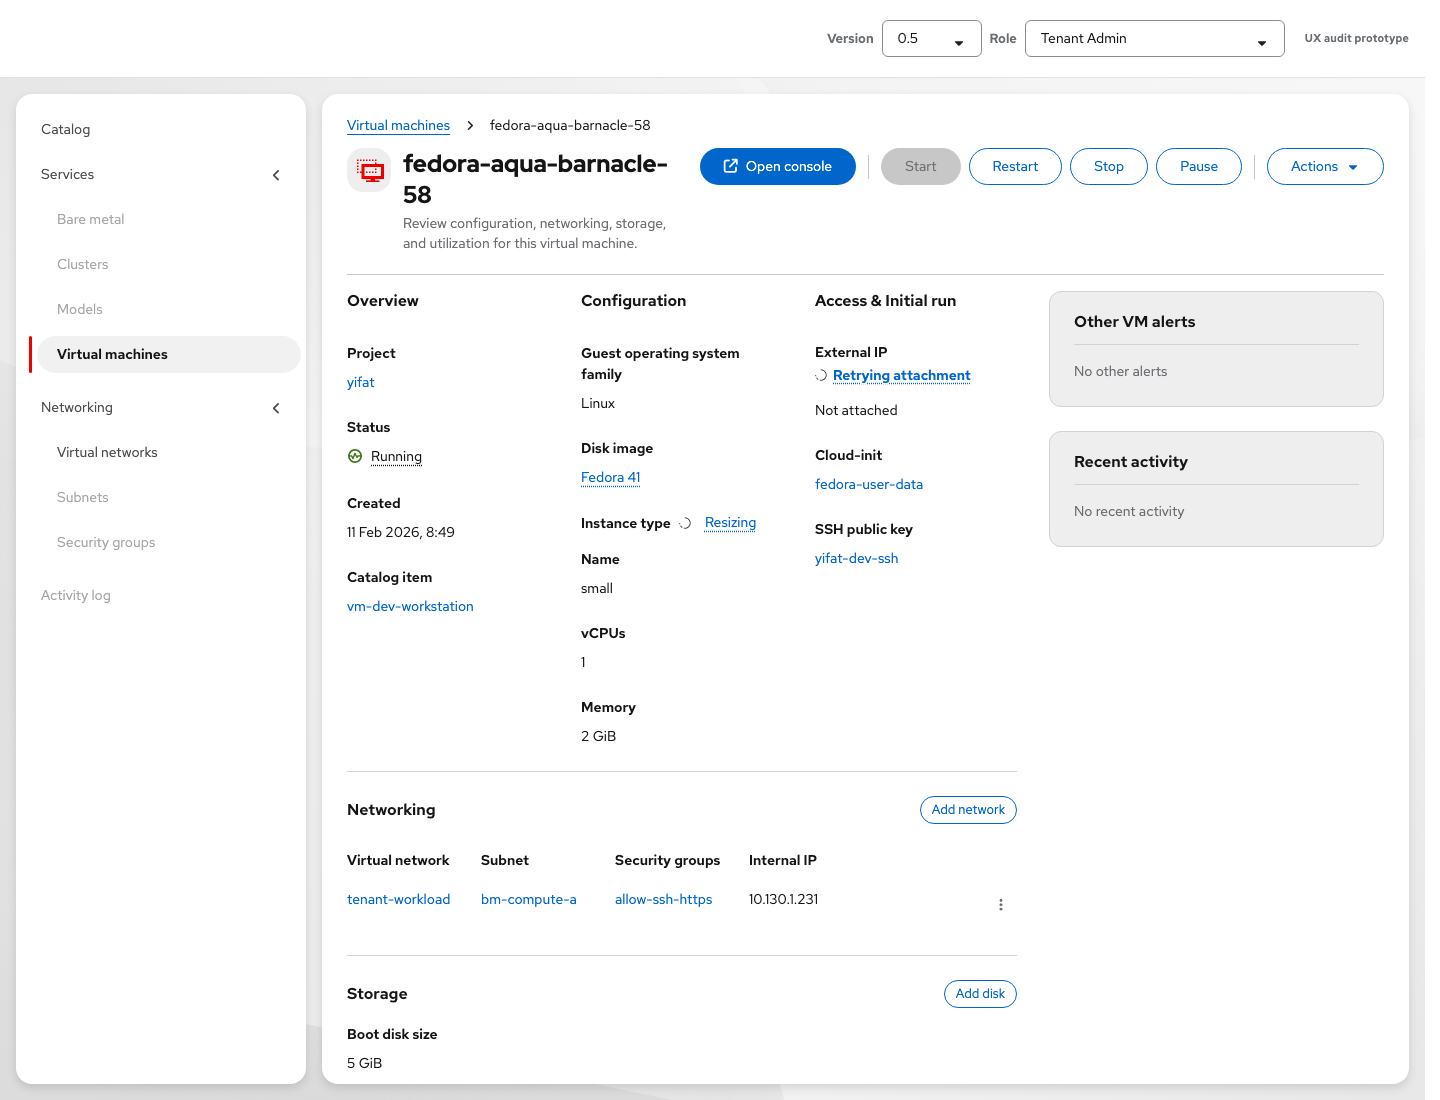
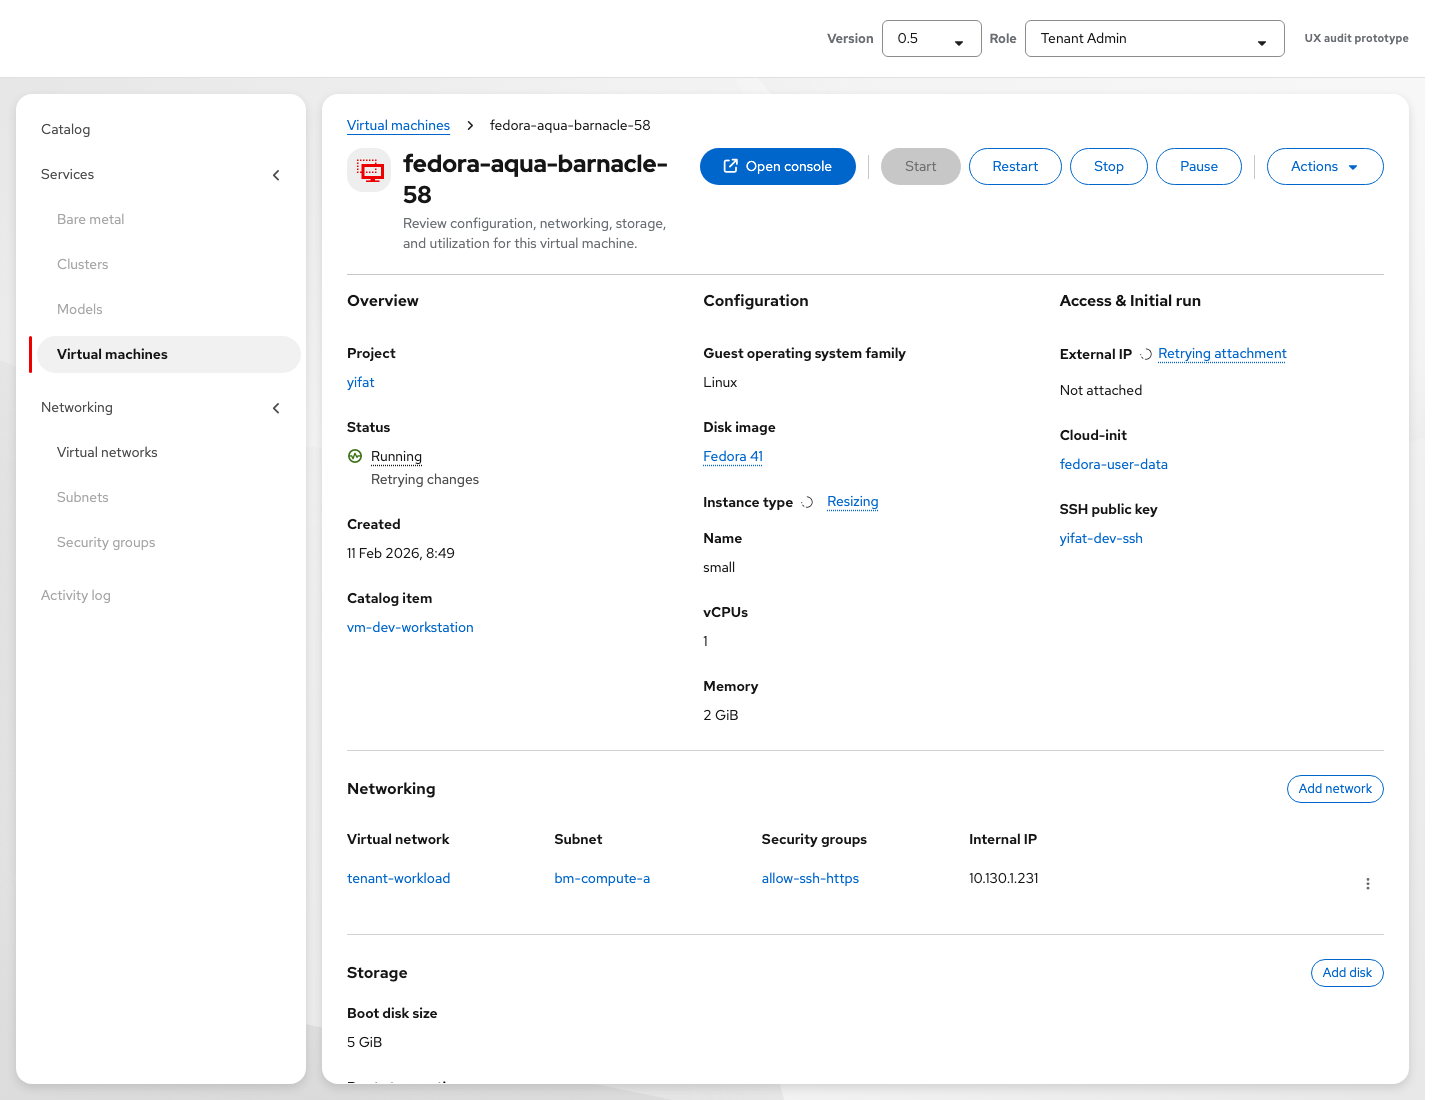
OSAC-7158: align VM details values and operation status layout

diff --git a/apps/app-frontend/public/vmaas-ux-prototype.html b/apps/app-frontend/public/vmaas-ux-prototype.html
@@ -1524,6 +1524,7 @@
     }
     @media (max-width: 1100px) { .vm-overview-v2 { grid-template-columns: 1fr; } }
     .vm-overview-v2__main { min-width: 0; }
+    .vm-overview-v2--full-width { grid-template-columns: minmax(0, 1fr); }
     .vm-overview-v2__aside { display: flex; flex-direction: column; gap: 24px; min-width: 0; }
     .vm-overview-v2__details { padding-top: 0; }
     .vm-overview-v2__detail-cols {
@@ -1673,6 +1674,11 @@
     .vm-access-section__title .pf-v6-c-label {
       font-size: 11px;
       line-height: 1.2;
+    }
+    .vm-operation-heading {
+      display: inline-flex;
+      align-items: center;
+      white-space: nowrap;
     }
     .vm-access-section__host-row {
       display: flex;
@@ -16007,7 +16013,11 @@
 
       return `
         <section class="vm-access-section" aria-labelledby="vm-access-eip-title">
-          <h4 class="ethan-detail-col__subtitle vm-access-section__title" id="vm-access-eip-title">External IP${progressControl ? ` <span class="vm-operation-heading">${progressControl}</span>` : ''}${autoAttached ? ' <span class="pf-v6-c-label pf-m-outline pf-m-grey pf-m-compact"><span class="pf-v6-c-label__content"><span class="pf-v6-c-label__text">Auto attached</span></span></span>' : ''}</h4>
+          <div class="ethan-detail-col__subtitle-row">
+            <h4 class="ethan-detail-col__subtitle" id="vm-access-eip-title">External IP</h4>
+            ${progressControl ? `<span class="vm-operation-heading">${progressControl}</span>` : ''}
+            ${autoAttached ? '<span class="pf-v6-c-label pf-m-outline pf-m-grey pf-m-compact"><span class="pf-v6-c-label__content"><span class="pf-v6-c-label__text">Auto attached</span></span></span>' : ''}
+          </div>
           ${contentHtml}
         </section>`;
     }
@@ -17834,7 +17844,7 @@
           <div class="pf-v6-c-alert__description">${String(v.provisioningFailureReason || 'ProvisioningFailed').replace(/</g, '&lt;')}: ${String(v.provisioningFailureMessage || 'The VM could not be provisioned.').replace(/</g, '&lt;')}</div>
         </div>` : '';
       const body = `
-        <div class="vm-overview-v2">
+        <div class="vm-overview-v2 vm-overview-v2--full-width">
           <div class="vm-overview-v2__main">
             ${deletingAlertHtml}
             ${operationAlertsHtml}
@@ -17845,7 +17855,7 @@
                 <section class="ethan-detail-col" aria-labelledby="vm-overview-title">
                   <h3 class="ethan-detail-col__title" id="vm-overview-title">Overview</h3>
                   ${itField('Project', projectDisplay)}
-                  ${itField('Status', deleting ? '<span class="status-static">Deleting</span>' : statusCell(v.status, v.name))}
+                  ${itField('Status', deleting ? '<span class="status-static">Deleting</span>' : `<span class="vm-status-with-configuration">${statusCell(v.status, v.name)}${vmConfigurationLabelHtml(v)}</span>`)}
                   ${itField('Created', v.created || '—')}
                   ${itField('Catalog item', catalogItemDisplay)}
                 </section>
@@ -18015,25 +18025,6 @@
               ${renderVmUtilizationTiles(v, u)}
             </section>
                 </div>
-          <aside class="vm-overview-v2__aside" aria-label="Sidebar">
-            <section class="catalog-hw-specs vm-overview-v2__aside-card" aria-labelledby="vm-alerts-title">
-              <h3 class="catalog-hw-specs__title" id="vm-alerts-title">Other VM alerts</h3>
-              ${alerts.length ? `
-                <ul class="vm-alerts-list" aria-label="Other VM alerts">
-                  ${alerts.slice(0, 3).map(a => `
-                    <li class="vm-alerts-list__item">
-                      <i class="fa-solid fa-triangle-exclamation" aria-hidden="true"></i>
-                      <span>${a.message || a}</span>
-                    </li>
-                  `).join('')}
-                </ul>
-              ` : '<p class="vm-overview-v2__aside-empty muted">No other alerts</p>'}
-            </section>
-            <section class="catalog-hw-specs vm-overview-v2__aside-card" aria-labelledby="vm-activity-title">
-              <h3 class="catalog-hw-specs__title" id="vm-activity-title">Recent activity</h3>
-              <p class="vm-overview-v2__aside-empty muted">No recent activity</p>
-            </section>
-          </aside>
           </div>
         `;
 

diff --git a/docs/osac-7158-configuration-operations.md b/docs/osac-7158-configuration-operations.md
@@ -31,7 +31,7 @@ When multiple operations coexist, use this summary priority: **Changes need atte
 
 ### VM details and actions
 
-Keep the active instance type, vCPUs, memory, and attached IP visible. Show **Not attached** without the prefix “Current external IP” when no address is attached. During detachment, retain the address until success.
+Keep the active instance type, vCPUs, memory, and attached IP visible. Show **Not attached** without the prefix “Current external IP” when no address is attached. During detachment, retain the address until success. VM Details uses the same configuration subtext below **Running** as tables and cards, including red **Changes need attention** after final failure. Operation triggers sit to the right of the Instance type and External IP headings; current values remain below. Remove the Other VM alerts and Recent activity sidebar cards and use the available width for the main content.
 
 Use PatternFly’s static **In progress** icon beside the heading with a link-styled popover trigger: **Resizing**, **Attaching**, or **Detaching**. During external-IP retries use **Retrying attachment** or **Retrying detachment**. On Details, waiting for an automatic retry uses **Retry pending** without an active icon. Remove the disabled resize pencil while work is running. Do not leave disabled Attach/Detach buttons beside the setting.
 
@@ -49,7 +49,7 @@ For a resize waiting for restart, replace the pencil with **Restart required**. 
 
 Restart opens a confirmation naming the VM, workload interruption, and exact changes. Focus Cancel initially. Recheck permissions, power state, and changes before submitting. Keep progress visible after restart until the requested resources are active. Success updates current values, clears completed operations, and shows a success toast; no persistent Completed line.
 
-Dialogs contain keyboard focus. Escape closes the picker before the dialog. Popovers support keyboard activation, Escape, and focus restoration. Returning to the list refreshes VM state while preserving view, filters, page, and valid selections. Close stale popovers. The sidebar uses **Other VM alerts** and **No other alerts** to avoid contradicting configuration failures.
+Dialogs contain keyboard focus. Escape closes the picker before the dialog. Popovers support keyboard activation, Escape, and focus restoration. Returning to the list refreshes VM state while preserving view, filters, page, and valid selections. Close stale popovers.
 
 ## Screenshots
 
